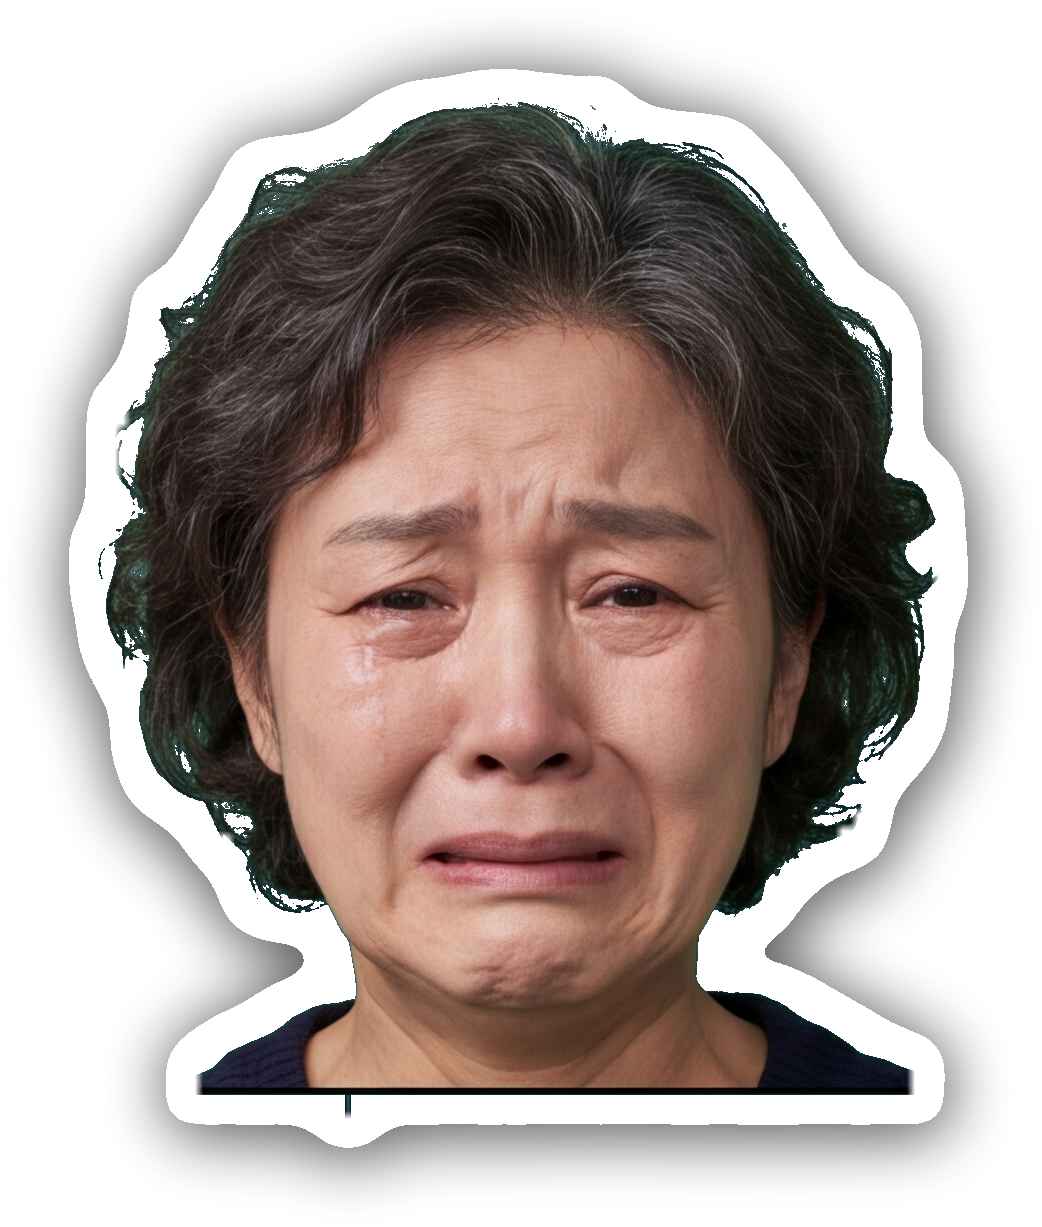
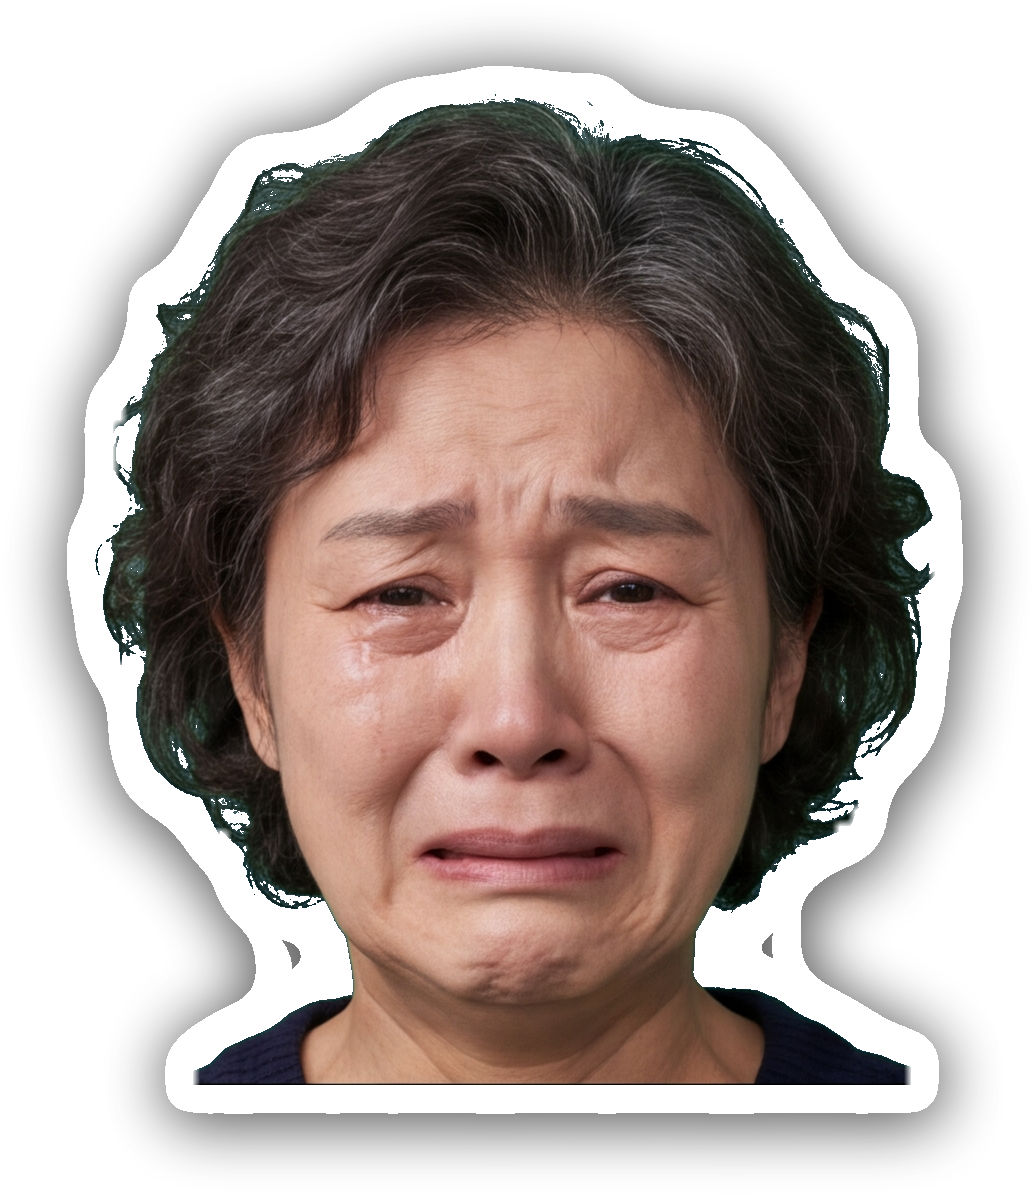
남아 있던 검은 칸 선을 실제로 지운다 (이정임 3장 · 재판장 1장)
예전 방식이 왜 놓쳤나 — 실측
    흰 테두리를 벗기고 아래에서 위로 재어 보니 이렇게 생겼다(이정임 face_sad):
      아래 11겹 : 폭 7px 짜리 **가시** (순검정)
      그 위 1겹 : 밝은 실오라기
      그 위 6겹 : **폭 710/841 이 98~100% 순검정** ← 이게 진짜 칸 선
      그 아래   : 옷 (순검정 0.8~8%)
    예전 코드는 바깥 12겹까지만 봤다. 그 12겹이 전부 '가시' 라 거기서 끝났고,
    바로 안쪽의 진짜 선은 손도 못 댔다. 가시만 떼고 선은 그대로 남긴 셈이다.

⚠ 그 사이 헛짚은 것 — '검정을 타고 흘러 들어가며 얇은 것만 지우기'
    옷을 갉아먹었다. 니트·법복은 골 사이가 문턱(28)보다 어두워서 실오라기처럼
    이어진다. 화면으로 확인하니 스웨터와 법복이 흰 줄로 찢겨 있었다. 저장 전에
    되돌렸다. **밝기만으로는 칸 선과 검은 옷을 절대 가를 수 없다.**

지금은 밝기가 아니라 **모양**으로 가른다
    ① 실루엣을 가로지를 것 — 가장 넓은 줄의 절반 이상
    ② 그 줄의 95% 이상이 순검정일 것
    ③ 얇을 것 (12겹 이하)
    ④ 폭이 모자란 줄(가시)은 **건너뛰고 계속 안쪽을 본다** — 여기서 멈추면 안 된다
    구두는 폭의 28% 라 ①에서, 법복은 가장 밝은 채널이 42 라 ②에서 걸러진다.

두 번 돌려도 안전하다 — 지운 자리에 옷이 드러나고 옷은 순검정이 아니므로
그 다음부터는 아무것도 지우지 않는다. 실측 확인: 2회차 0장.
(앞 커밋의 '지문 기록' 임시방편은 뺐다. 그건 아직 선이 남은 파일까지 영구히
 건너뛰게 만들어서 오히려 이 문제를 덮고 있었다.)

전수 검사
    35장 전부 — 정수리 잘림 0 · 좌우 잘림 0 (모든 그림 사방에 40~60px 여백)
    검은 선 0 (2회차 dry-run 확인) · 옷 손상 없음(육안)
    인물 배치 262건 — 아래끝 안 닿음 0 · 좌우 잘림 0 · 머리 위 잘림 0 ·
    자막이 얼굴 덮음 0

diff --git a/src/cleanline.py b/src/cleanline.py
@@ -10,16 +10,22 @@
     둘러지면서 좌·우·아래에 검은 줄이 박힌 채로 남았다.
     앞서 `blackbar.py` 는 **아래쪽 가로 띠**만 처리했다 — 좌우 세로 선은 그대로였다.
 
-옷의 검정과 어떻게 구분하나 — 실측
-    칸 선  : (0, 0, 0)          완전한 검정
-    남색 양복: (30, 31, 49)
-    검은 법복: (39, 35, 42)
-    그래서 **가장 밝은 채널이 22 미만**인 것만 선으로 본다. 옷은 절대 걸리지 않는다.
+칸 선은 이렇게 생겼다 — 실측 (이정임 face_sad, 흰 테두리를 벗긴 뒤 아래에서 위로)
+    아래 11겹 : 폭 7px 짜리 **가시** (순검정)
+    그 위 1겹 : 밝은 실오라기
+    그 위  6겹 : **폭 710/841 이 98~100% 순검정** ← 이것이 칸 선
+    그 아래    : 옷 (순검정 비율 0.8~8%)
 
-어떻게 벗기나
-    가장자리에서 한 겹씩 안으로 들어가며, 그 겹이 완전한 검정이면 지운다.
-    검정이 아닌 겹(피부·셔츠·머리카락)을 만나면 즉시 멈춘다.
-    그래서 선의 두께만큼만 정확히 벗겨진다.
+어떻게 가르나 — **밝기만으로는 절대 못 가른다**
+    니트·법복도 골 사이가 새까맣다. 밝기로만 지우면 옷이 갉아먹힌다(실제로 겪었다).
+    그래서 **모양**으로 가른다 — ① 실루엣을 가로지를 것(가장 넓은 줄의 절반 이상)
+    ② 그 줄의 95% 이상이 순검정일 것 ③ 얇을 것.
+    구두(폭의 28%)·법복(가장 밝은 채널 42 라 순검정 아님)은 걸리지 않는다.
+    바깥 12겹은 가시라 폭이 1% 뿐 — **건너뛰고 안쪽까지 봐야** 진짜 선을 만난다.
+
+두 번 돌려도 안전하다
+    지우고 나면 그 자리에 옷(순검정 아님)이 드러나므로 다음 번에는 아무것도 안 지운다.
+    실측으로 확인했다 — 두 번째 실행 0장.
 
 머리 잘림
     시트를 자를 때 얼굴 컷의 정수리가 평평하게 잘린 것이 있다. 실루엣 맨 윗줄이
@@ -38,10 +44,11 @@ import assets_gen as A  # noqa: E402
 ROOT = Path(__file__).resolve().parent.parent
 CHAR = ROOT / "assets" / "char"
 
-PURE = 22        # 가장 밝은 채널이 이 값 미만이면 '칸 선' (실측: 옷은 30~49)
-MAX_PEEL = 12    # 바깥에서 이만큼까지만 본다. 선은 몇 픽셀이고, 여기까지는
-                 # 설령 머리카락을 조금 깎아도 화면에서 보이지 않는다.
-BLACK_LINE = 0.60  # 그 줄의 불투명한 점 중 완전한 검정이 이 비율 이상이면 선이다
+PURE = 22          # 가장 밝은 채널이 이 값 미만이면 순검정 (실측: 옷은 30~49)
+MAX_PEEL = 30      # 바깥에서 이만큼까지만 본다 (실측: 가시 11겹 + 선 6겹이라 12로는 모자랐다)
+LINE_SPAN = 0.50   # 실루엣에서 가장 넓은 줄의 이 비율은 넘어야 '가로지르는 선'
+LINE_BLACK = 0.95  # 그 줄의 이 비율 이상이 순검정이어야 선 (실측: 선 98~100% · 옷 0.8~8%)
+LINE_MAX_THICK = 12  # 이보다 두꺼우면 선이 아니라 검은 옷이다
 FLAT_TOP = 0.34  # 맨 윗줄 폭이 최대 폭의 이 비율을 넘으면 머리가 잘린 것
 CHIN_AT = 0.55   # 되살린 얼굴에서 턱이 와야 할 높이 비율 (아래에 가슴이 남도록)
 
@@ -69,13 +76,31 @@ def strip_outline(sp, white_at=238):
 
 
 def peel_black(sp):
-    """가장자리에 **직선으로 늘어선** 검은 줄만 벗긴다. → (바뀐 그림, 벗긴 줄 수)
+    """실루엣에 붙어 있는 **얇은 검정**(칸 선)만 지운다. → (바뀐 그림, 지운 점 수)
 
-    ⚠ 처음에는 '가장자리에서 완전한 검정을 한 겹씩 벗기기' 로 했는데,
-       검은 곱슬머리가 함께 벗겨져 30겹까지 파고들었다(실측).
-       칸 선은 **바깥 끝에서 곧게 뻗은 한 줄**이고 머리카락은 들쭉날쭉하다.
-       그래서 바깥 줄(열·행) 단위로만 보고, 그 줄의 불투명한 점 대부분이
-       완전한 검정이면서 길게 이어질 때만 지운다."""
+    ⚠ 앞서 두 가지 방법이 다 틀렸다.
+       ① 가장자리에서 완전검정을 한 겹씩 벗기기 → 검은 곱슬머리를 30겹까지 먹었다.
+       ② 바깥 줄(행·열) 단위로 보고 12줄까지만 벗기기 → **거의 다 놓쳤다.**
+          실측: 이정임 7장에 아직 선이 남아 있었다. 칸 선은 반듯한 가로줄이 아니라
+          실루엣 밖으로 삐져나온 **얇은 조각**이라(폭 1px 짜리 가시도 있었다)
+          '한 줄이 통째로 검다' 는 가정 자체가 틀렸다.
+
+    ⚠ ③ '검정을 타고 흘러 들어가며 얇은 것만 지우기' 도 해 봤는데 **옷을 갉아먹었다.**
+          니트·법복의 골 사이가 28 보다 어두워서 실오라기처럼 이어졌기 때문이다.
+          밝기만으로는 칸 선과 검은 옷을 절대 가를 수 없다.
+
+    지금 방식 — 실측한 **모양**으로 가른다.
+       테두리를 벗기고 아래에서 위로 재어 보니 이렇게 생겼다(이정임 face_sad):
+         아래 11겹 : 폭 7px 짜리 **가시** (순검정)
+         그 위 1겹 : 밝은 실오라기
+         그 위 6겹 : **폭 710/841 이 98~100% 순검정** ← 이게 칸 선이다
+         그 아래   : 옷 (순검정 비율 0.8~8%)
+       그래서 조건은 셋이다 — ① 실루엣 폭을 가로지를 것(가장 넓은 줄의 절반 이상)
+       ② 그 줄의 95% 이상이 순검정일 것 ③ 얇을 것.
+       구두·법복은 ①이나 ②에서 걸러진다 (실측: 뒷모습 구두는 폭의 28%,
+       법복은 가장 밝은 채널이 42 라 순검정이 아니다).
+       ⚠ 가시 때문에 바깥 12겹은 폭이 1% 밖에 안 된다 — 거기서 멈추면 안 되고
+          **건너뛰고 계속 안쪽을 봐야** 진짜 선을 만난다. 예전 코드가 여기서 멈췄다."""
     r, g, b = sp.convert("RGB").split()
     pure = ImageChops.multiply(
         ImageChops.multiply(r.point(lambda v: 255 if v < PURE else 0),
@@ -85,35 +110,36 @@ def peel_black(sp):
     W, H = sp.size
     ap, pp = a.load(), pure.load()
 
-    def line(kind, i):
-        """그 줄의 (불투명 점 수, 그중 완전한 검정 수, 이어진 길이)"""
-        rng = range(H) if kind in ("L", "R") else range(W)
-        on = [j for j in rng if (ap[i, j] if kind in ("L", "R") else ap[j, i])]
-        if not on:
-            return 0, 0, 0
-        blk = sum(1 for j in on
-                  if (pp[i, j] if kind in ("L", "R") else pp[j, i]))
-        return len(on), blk, on[-1] - on[0] + 1
+    def scan(kind, i):
+        """그 줄의 (불투명 점 수, 그중 순검정 수)"""
+        if kind in ("L", "R"):
+            on = [j for j in range(H) if ap[i, j]]
+            return len(on), sum(1 for j in on if pp[i, j])
+        on = [j for j in range(W) if ap[j, i]]
+        return len(on), sum(1 for j in on if pp[j, i])
 
-    # ⚠ '길게 이어져야 한다' 는 조건을 넣었다가 판사 왼쪽 선을 놓쳤다.
-    #    실측: x=2~3 열이 94% 완전검정인데 길이는 그림 높이의 13%뿐이었다
-    #    (얼굴 컷이라 법복이 아래 일부에만 있기 때문). 길이 조건을 뺀다.
-    #    대신 바깥 12픽셀까지만 본다 — 그 안쪽은 사람이다.
-    cut = {"L": 0, "R": 0, "T": 0, "B": 0}
+    cut = {}
     for kind, idx in (("L", range(W)), ("R", range(W - 1, -1, -1)),
                       ("T", range(H)), ("B", range(H - 1, -1, -1))):
-        deepest = 0
+        n_lines = W if kind in ("L", "R") else H
+        widest = max([scan(kind, i)[0]
+                      for i in range(0, n_lines, max(1, n_lines // 60))] + [1])
+        deepest, run = 0, 0
         for k, i in enumerate(idx):
             if k >= MAX_PEEL:
                 break
-            n_on, n_blk, _ = line(kind, i)
-            if n_on == 0:
-                continue
-            if n_blk >= n_on * BLACK_LINE:
-                deepest = k + 1          # 여기까지(포함) 지운다
+            n_on, n_blk = scan(kind, i)
+            if n_on < widest * LINE_SPAN:
+                run = 0
+                continue                      # 가시·자투리 — 건너뛰고 계속 안쪽을 본다
+            if n_blk >= n_on * LINE_BLACK:
+                run += 1
+                if run <= LINE_MAX_THICK:     # 두꺼우면 선이 아니라 검은 옷이다
+                    deepest = k + 1
+            else:
+                run = 0
         cut[kind] = deepest
 
-    total = sum(1 for v in cut.values() if v)
     if not any(cut.values()):
         return sp, 0
     keep = Image.new("L", sp.size, 0)
@@ -180,19 +206,6 @@ def face_from_bust(code, mood):
     return None, None
 
 
-def _log_path():
-    """이미 손댄 그림의 지문(해시) 목록. 같은 그림을 두 번 벗기지 않기 위한 기록.
-
-    파일 이름이 아니라 **내용의 지문**을 적는다. 그래야 그림을 새로 만들어
-    끼워 넣으면(같은 이름·다른 내용) 다시 한 번 검사한다."""
-    return CHAR / ".cleaned.txt"
-
-
-def _fp(path):
-    import hashlib
-    return hashlib.sha1(path.read_bytes()).hexdigest()[:16]
-
-
 def main():
     ap = argparse.ArgumentParser()
     ap.add_argument("--dry", action="store_true")
@@ -204,18 +217,9 @@ def main():
         want = {s.strip() for s in args.only.split(",") if s.strip()}
         files = [f for f in files if f.parent.name in want]
 
-    done = _log_path()
-    seen = set(done.read_text(encoding="utf-8").split()) if done.exists() else set()
-
     n_peel = n_head = 0
     for f in files:
         code, pose = f.parent.name, f.stem
-        # ⚠ 이 도구는 **두 번 돌리면 안 된다.** 한 번 벗긴 뒤 흰 테두리를 다시 두르면,
-        #    다음 번에는 그 아래에서 새로 드러난 어두운 옷깃을 또 '선' 으로 보고 벗긴다.
-        #    실측: 이미 깨끗한 판사 상반신에서 7겹, 김성일 전신 2장에서 12겹을 더 먹었다.
-        #    그래서 한 번 손댄 파일은 기록해 두고 다시 건드리지 않는다.
-        if _fp(f) in seen:
-            continue
         plain = strip_outline(Image.open(f).convert("RGBA"))
         plain, peeled = peel_black(plain)
 
@@ -227,16 +231,12 @@ def main():
                 print(f"  {code}/{pose:14} 머리 잘림 → bust_{used} 에서 얼굴을 오려 대신함")
                 n_head += 1
         if peeled:
-            print(f"  {code}/{pose:14} 검은 선 {peeled}겹 벗김")
+            print(f"  {code}/{pose:14} 검은 선 {peeled:,}점 지움")
             n_peel += 1
         if not peeled and rebuilt is None:
             continue
         if not args.dry:
             A.white_outline(rebuilt if rebuilt is not None else plain).save(f)
-            seen.add(_fp(f))
-
-    if not args.dry:
-        done.write_text("\n".join(sorted(seen)) + "\n", encoding="utf-8")
 
     print(f"\n검은 선 {n_peel}장 · 머리 되살림 {n_head}장 (전체 {len(files)}장)"
           + ("   [--dry — 저장하지 않았다]" if args.dry else ""))
